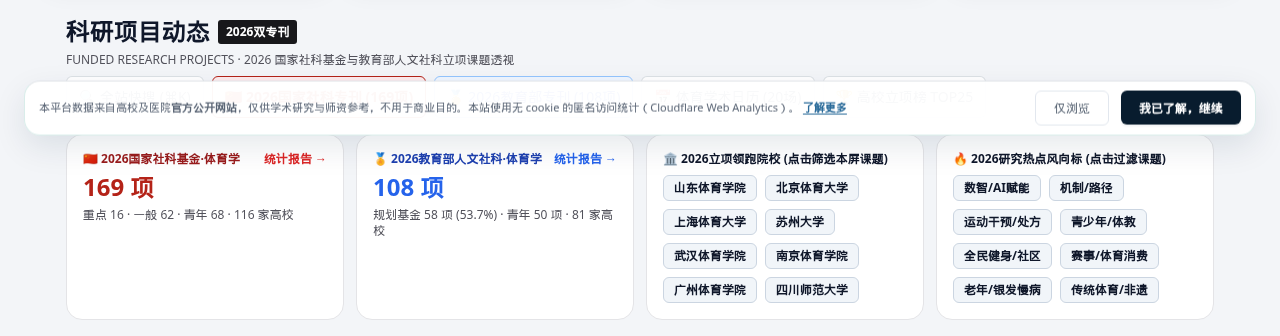
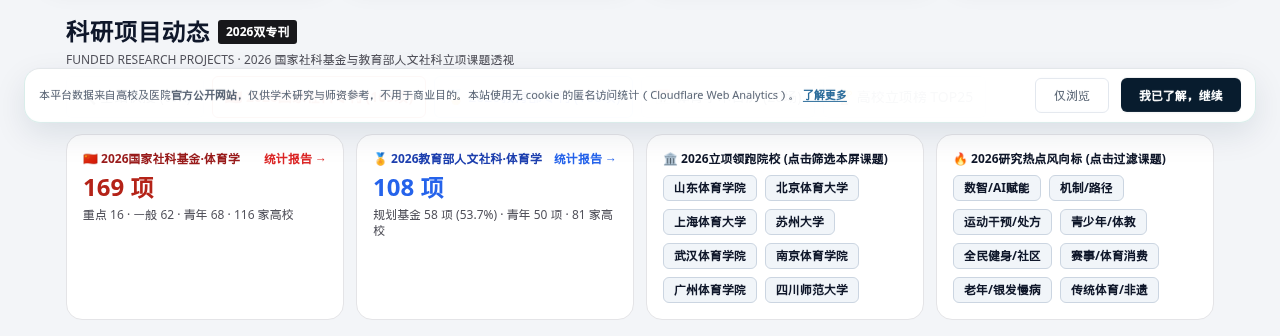
chore: set data-build to v4.6-114 after rebasing onto #69
Main is v4.6-113. Refresh the 科研项目动态 before/after frames so they still show the active 国家社科 chip and the 169 count together.

Changed region(s): [[0.0, 0.2083, 1.0, 0.4167]]

diff --git a/index.html b/index.html
@@ -1,5 +1,5 @@
 <!DOCTYPE html>
-<html lang="zh-CN" class="cssd-light" data-build="v4.6-113">
+<html lang="zh-CN" class="cssd-light" data-build="v4.6-114">
 <head><!-- SEO & 规范链接 -->
   <link rel="canonical" href="https://www.tiyuxueren.com/">
   <meta name="description" content="体育学人 (CSSD) - 收录全国 5,800+ 位体育学学者档案、560 所高校及科研机构、3,000+ 项国家社科基金项目及最新学术期刊动态。">
